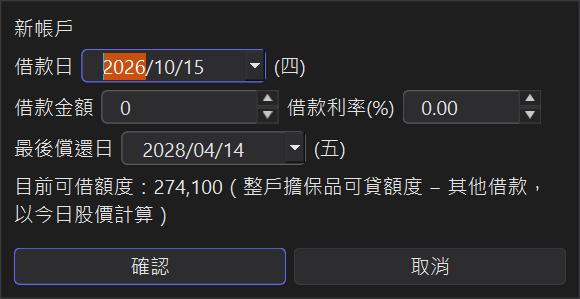
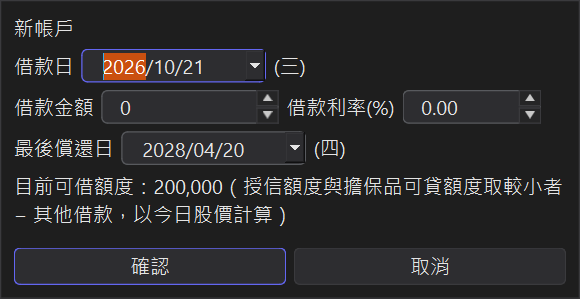
股票質押教學：補上授信額度，可借額度改以授信額度與擔保品可貸額度取較小者說明
- 新增「設定授信額度」章節與截圖，後續章節編號遞補
- 「整戶可貸額度」改為「擔保品可貸額度」；新增借款、退券、計算公式同步更新
- 重新產生質押教學截圖（含授信額度欄位）
- 首頁教學卡片與頁面 meta 說明同步調整

diff --git a/tutorials/tutorial_股票質押.html b/tutorials/tutorial_股票質押.html
@@ -5,20 +5,20 @@
     <meta charset="UTF-8">
     <meta name="viewport" content="width=device-width, initial-scale=1.0">
     <title>教學：股票質押記帳 - StockKeeper</title>
-    <meta name="description" content="StockKeeper 股票質押記帳教學：擔保品、借款、還款、利息、撥券費一站記錄，自動計算整戶維持率與可貸額度，質押成本也能納入損益與報酬率。">
+    <meta name="description" content="StockKeeper 股票質押記帳教學：擔保品、借款、還款、利息、撥券費一站記錄，自動計算整戶維持率與剩餘可借額度（含授信額度上限），質押成本也能納入損益與報酬率。">
     <link rel="canonical" href="https://www.firefoxinfo.com/tutorials/tutorial_股票質押.html">
 
     <meta property="og:type" content="article">
     <meta property="og:site_name" content="火狐資訊 StockKeeper">
     <meta property="og:title" content="教學：股票質押記帳 - StockKeeper">
-    <meta property="og:description" content="擔保品、借款、還款、利息、撥券費一站記錄，自動計算整戶維持率與可貸額度。">
+    <meta property="og:description" content="擔保品、借款、還款、利息、撥券費一站記錄，自動計算整戶維持率與剩餘可借額度（含授信額度上限）。">
     <meta property="og:url" content="https://www.firefoxinfo.com/tutorials/tutorial_股票質押.html">
     <meta property="og:image" content="https://www.firefoxinfo.com/images/Tutorial/股票質押/Main.png">
     <meta property="og:locale" content="zh_TW">
 
     <meta name="twitter:card" content="summary_large_image">
     <meta name="twitter:title" content="教學：股票質押記帳 - StockKeeper">
-    <meta name="twitter:description" content="擔保品、借款、還款、利息、撥券費一站記錄，自動計算整戶維持率與可貸額度。">
+    <meta name="twitter:description" content="擔保品、借款、還款、利息、撥券費一站記錄，自動計算整戶維持率與剩餘可借額度（含授信額度上限）。">
     <meta name="twitter:image" content="https://www.firefoxinfo.com/images/Tutorial/股票質押/Main.png">
 
     <link rel="stylesheet" href="../style.css">
@@ -56,59 +56,68 @@
 
                     <p>把手上的股票拿去券商質押借錢，需要追蹤的東西很多：哪些股票撥券了、借了多少、利息多少、維持率還夠不夠。<br>
                         StockKeeper 的「<span class="highlight-field">質押</span>」功能把<span class="highlight-field-blue">擔保品、借款、還款、利息、撥券費</span>集中在同一個地方記錄，
-                        並自動計算<span class="highlight-field-blue">整戶維持率</span>與<span class="highlight-field-blue">可貸額度</span>。</p>
+                        並自動計算<span class="highlight-field-blue">整戶維持率</span>與<span class="highlight-field-blue">剩餘可借額度</span>。</p>
 
                     <h3>1、開啟質押分頁</h3>
-                    <p>每個台股帳戶左側都有「<span class="highlight-field">質押</span>」分頁，分成上方的<span class="highlight-field-blue">擔保品</span>與下方的<span class="highlight-field-blue">借款</span>兩個區塊。
+                    <p>每個台股帳戶左側都有「<span class="highlight-field">質押</span>」分頁，最上方是<span class="highlight-field-blue">授信額度</span>，下面分成<span class="highlight-field-blue">擔保品</span>與<span class="highlight-field-blue">借款</span>兩個區塊。
                         點選某一筆借款，右側會顯示這筆借款的<span class="highlight-field-blue">借款明細</span>（撥款、逐月利息、還款）。</p>
                     <img src="../images/Tutorial/股票質押/質押分頁.png" alt="質押分頁：擔保品、借款與借款明細" class="content-image">
                     <p>● 質押為台股專屬功能，美股帳戶不會顯示這個分頁。</p>
 
-                    <h3>2、匯入擔保品（撥券）</h3>
+                    <h3>2、設定授信額度</h3>
+                    <p>向券商申請股票質押（不限用途款項借貸）時，券商會核定一個<span class="highlight-field">授信額度</span>。
+                        這是借款的上限 ── <span class="highlight-field-blue">就算匯入再多擔保品，借款總額也不會超過這個額度</span>。</p>
+                    <p>在質押分頁最上方的「<span class="highlight-field">授信額度</span>」欄位輸入券商核定的金額即可，輸入後按 Enter 或離開欄位就會自動儲存。
+                        沒有填寫時顯示「未設定」，剩餘可借額度只會依擔保品計算。</p>
+                    <img src="../images/Tutorial/股票質押/授信額度.png" alt="質押分頁上方的授信額度欄位" class="content-image">
+
+                    <h3>3、匯入擔保品（撥券）</h3>
                     <p>點「<span class="highlight-field">匯入擔保品</span>」，選擇要撥券的股票並填入：</p>
                     <p>● <strong>擔保張數</strong>：上限會自動設為這檔股票還能質押的張數。</p>
                     <p>● <strong>可貸成數</strong>：依券商規定，例如 0.6。</p>
                     <p>● <strong>撥券日、撥券費</strong>：撥券費預設 1 元/張，可以自行調整。</p>
                     <img src="../images/Tutorial/股票質押/匯入擔保品.png" alt="匯入擔保品視窗" class="content-image">
                     <p>擔保品表會顯示每檔的<span class="highlight-field-blue">擔保品市值</span>與<span class="highlight-field-blue">可貸額度</span>（市值 × 可貸成數），
-                        總表的庫存也會標記「<span class="highlight-field-blue">質押 N 張</span>」。</p>
+                        區塊上方的摘要則顯示全部擔保品加總的「<span class="highlight-field-blue">擔保品可貸額度</span>」；總表的庫存也會標記「<span class="highlight-field-blue">質押 N 張</span>」。</p>
 
-                    <h3>3、新增借款</h3>
+                    <h3>4、新增借款</h3>
                     <p>點「<span class="highlight-field">新增借款</span>」，填入借款日、借款金額、借款利率與最後償還日（預設為借款日的一年半後）。</p>
-                    <p>視窗會顯示「<span class="highlight-field-blue">目前可借額度</span>」＝ 整戶擔保品可貸額度 − 其他借款。
+                    <p>視窗會顯示「<span class="highlight-field-blue">目前可借額度</span>」＝ 授信額度與擔保品可貸額度取較小者 − 其他借款。
                         借款金額超過時會提醒，確認後仍可以繼續（例如當初借款時股價較高）。</p>
                     <img src="../images/Tutorial/股票質押/新增借款.png" alt="新增借款視窗與目前可借額度" class="content-image">
 
-                    <h3>4、利息自動逐月計算</h3>
+                    <h3>5、利息自動逐月計算</h3>
                     <p>借款利息依<span class="highlight-field-blue">剩餘本金 × 年利率 ÷ 365 × 天數</span>逐月計算，顯示在借款明細中。
                         如果和券商實際扣的利息有出入，可以點利息那一列的<span class="highlight-field-blue">編輯</span>，手動覆寫該月的實際金額。</p>
 
-                    <h3>5、現金償還</h3>
+                    <h3>6、現金償還</h3>
                     <p>點「<span class="highlight-field">現金償還</span>」，選擇要償還的借款、償還日期與金額，也可以勾選「<span class="highlight-field-blue">全額償還</span>」。
                         先在借款表點選一筆借款再按「現金償還」，視窗會自動選好那一筆。</p>
                     <img src="../images/Tutorial/股票質押/現金償還.png" alt="現金償還視窗" class="content-image">
                     <p>借款表會分別顯示<span class="highlight-field-blue">原始借款金額</span>與<span class="highlight-field-blue">剩餘借款金額</span>；還清後狀態會變成「已還清」，
                         可以勾選「<span class="highlight-field-blue">隱藏已還清</span>」只看進行中的借款。</p>
 
-                    <h3>6、退券</h3>
+                    <h3>7、退券</h3>
                     <p>點「<span class="highlight-field">退券</span>」，選擇股票與退券張數，退回的張數就能正常賣出。
-                        退券後如果整戶可貸額度低於已借總金額，程式會先提醒。</p>
+                        退券後如果擔保品可貸額度低於已借總金額，程式會先提醒。</p>
                     <img src="../images/Tutorial/股票質押/退券.png" alt="退券視窗" class="content-image">
 
-                    <h3>7、撥券明細</h3>
+                    <h3>8、撥券明細</h3>
                     <p>撥券費屬於已付出的成本，退券時不會退還。點「<span class="highlight-field">撥券明細</span>」可以查看、新增、編輯或刪除每一次撥券的紀錄，
                         撥券費為 0 元的撥券也會記錄。</p>
                     <img src="../images/Tutorial/股票質押/撥券明細.png" alt="撥券明細視窗" class="content-image">
 
-                    <h3>8、整戶維持率怎麼算？</h3>
+                    <h3>9、維持率與可借額度怎麼算？</h3>
                     <p>借款不需要逐筆綁定擔保品，而是由<span class="highlight-field">整戶</span>擔保品一起支撐所有借款：</p>
                     <p>● <strong>整戶維持率</strong> ＝ 擔保品市值合計 ÷ 已借總金額 × 100%</p>
-                    <p>● <strong>整戶可貸額度</strong> ＝ Σ（擔保品市值 × 可貸成數）</p>
-                    <p>● <strong>剩餘可借額度</strong> ＝ 整戶可貸額度 − 已借總金額</p>
+                    <p>● <strong>擔保品可貸額度</strong> ＝ Σ（擔保品市值 × 可貸成數）</p>
+                    <p>● <strong>剩餘可借額度</strong> ＝ 授信額度與擔保品可貸額度<span class="highlight-field-blue">取較小者</span> − 已借總金額（未設定授信額度時只看擔保品）</p>
+                    <p>擔保品可貸額度會隨<span class="highlight-field-blue">股價每天變動</span>，授信額度則是固定的：
+                        股價高時，可借金額由授信額度決定；股價跌時，則由擔保品決定。</p>
                     <p><span class="highlight-field">小提醒：</span>券商 App 通常以<span class="highlight-field-blue">前一個交易日的收盤價</span>計算維持率，
                         StockKeeper 則以<span class="highlight-field-blue">最新收盤價</span>計算，同一天兩邊的數字可能略有不同。</p>
 
-                    <h3>9、質押成本納入損益與報酬率</h3>
+                    <h3>10、質押成本納入損益與報酬率</h3>
                     <p>在「<span class="highlight-field">各項計算設定</span>」勾選「<span class="highlight-field-blue">成本及損益納入質押利息與撥券費</span>」（預設勾選），
                         質押的利息與撥券費就會計入帳戶的總成本、總損益與年化報酬率，帳戶摘要也會顯示「<span class="highlight-field-blue">累計質押成本</span>」。</p>
 

diff --git a/index.html b/index.html
@@ -473,7 +473,7 @@
           <a href="tutorials/tutorial_股票質押.html" class="tutorial-card">
             <img src="images/Tutorial/股票質押/thumb.svg" alt="股票質押記帳">
             <h3>股票質押記帳</h3>
-            <p>擔保品、借款、還款、利息、撥券費一站記錄，自動計算整戶維持率與可貸額度。</p>
+            <p>擔保品、借款、還款、利息、撥券費一站記錄，自動計算整戶維持率與剩餘可借額度（含授信額度上限）。</p>
           </a>
           <a href="tutorials/tutorial_併購設定教學.html" class="tutorial-card">
             <img src="images/Tutorial/併購設定/thumb.svg" alt="併購設定">
